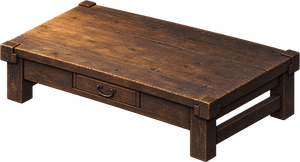
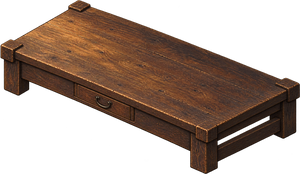
Integrate approved interior prop angle corrections

diff --git a/tools/prepare_interior_angle_revisions.py b/tools/prepare_interior_angle_revisions.py
@@ -1,0 +1,56 @@
+"""Install approved angle revisions as game-sized transparent interior cutouts.
+
+Preview sources remain unchanged. Run with the bundled Pillow Python runtime.
+"""
+import json
+import re
+from pathlib import Path
+
+from PIL import Image
+
+
+ROOT = Path(__file__).resolve().parents[1]
+SOURCE = ROOT / "assets/environment/interior_prop_previews/angle_revisions"
+DEST = ROOT / "game/art/interior"
+NAMES = (
+    "inspection_table",
+    "customs_notice_board",
+    "towel_shelf",
+    "bath_bucket_stool",
+)
+
+
+def main():
+    metadata_path = ROOT / "game/art/cutouts.json"
+    metadata_text = metadata_path.read_text(encoding="utf-8")
+    metadata = json.loads(metadata_text)
+    prepared = []
+    for name in NAMES:
+        image = Image.open(SOURCE / f"{name}_angle_v2.png").convert("RGBA")
+        bounds = image.getchannel("A").point(lambda value: 255 if value > 8 else 0).getbbox()
+        if not bounds:
+            raise ValueError(f"{name} has no visible pixels")
+        image = image.crop(bounds)
+        scale = min(1, 300 / max(image.size))
+        size = tuple(max(1, round(dimension * scale)) for dimension in image.size)
+        image = image.resize(size, Image.Resampling.LANCZOS)
+
+        old = metadata[f"interior/{name}"]
+        revised = dict(old, w=size[0], h=size[1], right=size[0] - 1,
+                       bottomX=size[0] // 2, bottomY=size[1] - 1)
+        pattern = rf'("interior/{name}": )\{{[^\r\n]*\}}'
+        replacement = rf'\g<1>{json.dumps(revised, separators=(",", ":"))}'
+        metadata_text, count = re.subn(pattern, replacement, metadata_text)
+        if count != 1:
+            raise ValueError(f"{name}: could not update exactly one metadata entry")
+        prepared.append((name, image))
+
+    json.loads(metadata_text)
+    for name, image in prepared:
+        image.save(DEST / f"{name}.png", optimize=True)
+        print(f"{name}: installed {image.width}x{image.height}")
+    metadata_path.write_text(metadata_text, encoding="utf-8")
+
+
+if __name__ == "__main__":
+    main()

diff --git a/docs/interior_art_layout_handoff_2026-10-22.md b/docs/interior_art_layout_handoff_2026-10-22.md
@@ -1,0 +1,24 @@
+# Interior art and layout handoff — 2026-10-22
+
+The user approved the new interior artwork and requested logical, visually aligned layouts. The earlier interior pass was committed as `369d50f`. The four approved angle revisions below are newer, uncommitted changes in the shared working tree. Preserve unrelated changes from concurrent work.
+
+## Integrated work
+
+- Twelve first-pass approved props were added to `game/art/interior/`, `game/data/art.json`, `game/art/cutouts.json`, and `game/data/interior_parts.json`: inspection table, ledger stack, records shelf, customs notice board, merchandise shelf, pawn display, soaking tub, bath bucket/stool, towel shelf, weapon rack, practice dummy, and brewing vat. Full-resolution sources and prompts are in `assets/environment/interior_prop_previews/`.
+- Eight second-pass approved props were added in the same catalog: shop dry-goods and textile shelves, pawn valuables display, two brewery shelves, manor reception table, armor display, and scroll cabinet. Sources and contact sheet are in `assets/environment/interior_prop_previews/pass2/`.
+- `game/src/sim/generate.js` now supports aligned rows with mixed art variants and optional gaps, fixed sleeping bays, and four cushions around the manor reception table. `game/data/room_recipes.json` arranges shop and pawn displays, customs records, brewery vats and shelves, manor furnishings, tenement sleeping and common areas, and bathhouse washing and tub zones. The bathhouse screen arrangement remains unchanged.
+- New brewery painted shelves replaced the old `sake_shelf` within the brewery recipe. The old prop remains available to other rooms.
+- Current correction from user screenshots: pawnshop display row includes the merchandise shelf with a 0.5-cell visual gap; brewery bottle shelves have a 1-cell gap; customs notice board is wall-mounted on the north wall; bathhouse towel shelf is north-wall furniture and washing stations form a row separate from the tubs.
+- `game/tools/test_interior_art.mjs` checks approved art files, selected-room prop presence, aligned rows, and existing cutout/collision behavior. `tools/prepare_interior_prop_previews.py` prepares game-sized sprites; `tools/make_interior_preview_sheet.py` creates the second-pass contact sheet.
+- After reviewing the angle-revision contact sheet, the user approved it. `tools/prepare_interior_angle_revisions.py` installed the revised inspection table, customs notice board, towel shelf, and bath bucket/stool in `game/art/interior/` and updated their dimensions in `game/art/cutouts.json`. The room recipes, placements, and collision footprints did not change. The optional revised futon art remains a preview because the small renderer rotation is already in place.
+
+## Validation and remaining work
+
+- Before the latest pawnshop, brewery, customs-board, and bathhouse refinements, all 14 room types passed 100 seeds and `test_interior_art.mjs` passed.
+- After the latest refinements, all 14 types passed 100 seeds and `node game/tools/test_interior_art.mjs` passed. The brewery shelf row now slides along the north wall to avoid a door or counter; this resolved the one previously failing seed.
+- User reported that the painted angle of futons, customs inspection desk/notice board, and bathhouse towel shelf/bucket-stool was slightly off from the room wall/floor axes. The room footprints and screens were aligned. Tim suggested rotating the image first, so tenement futons use a small `artAngle: -3` visual rotation through `interiors.js` and `render/scenery.js`, with no collision or screen change. The four other approved perspective-corrected images are now game cutouts. Their full-resolution sources, the optional futon revision, and contact sheet remain under `assets/environment/interior_prop_previews/angle_revisions/`.
+- After installing the four revisions, `node game/tools/test_interior_art.mjs` and `node game/tools/test_rooms.mjs 100` passed for all room types.
+- Hideout custom layout/art was explicitly deferred to a later pass. Den, teahouse, and warehouse were praised by the user and intentionally left alone in this refinement.
+- An anti-camping warning fired inside the brewery. The user asked for this to be sent to another chat. `Fix indoor anti-camping warning` (thread `01a1644d-b06e-7b71-b6b9-9fb94ea7acec`) is handling that fix in the shared checkout. Avoid overlap with its gameplay files.
+
+Commit only the interior-related paths after reviewing `git status`; several unrelated gameplay and menu files are being edited concurrently in the shared checkout.

diff --git a/docs/interiors_spec.md b/docs/interiors_spec.md
@@ -8,7 +8,7 @@ Phase 3E (Tim, 2026-10-21): Shop, Tenements, Pawnshop, Bathhouse, Sake Brewery, 
 
 Approved painted wall panels and prop cutouts reuse the room's 3D floors, walls, depth and collision footprints. Twenty new props cover customs records/inspection, shop and pawn displays, bathing, dojo training, brewery storage/vats and manor furnishings. Sources and prompts: `assets/environment/interior_prop_previews/`; preparation: `tools/prepare_interior_prop_previews.py` and `tools/extract_interior_reuse.py`. Layout rules: [room generator](room_generator_plan.md#aligned-layouts-tim-2026-10-22).
 
-Five perspective revisions (futon, inspection table, notice board, towel shelf and bucket/stool) remain previews only. Tenement futons use a small -3° in-render art rotation; collision footprints and screens stay fixed. Tim reviews revised art before replacement. Hideout custom art/layout remains deferred.
+Angle revisions approved and integrated (Tim, 2026-10-22): inspection table, customs notice board, towel shelf and bath bucket/stool. Recipes, placement and collision footprints are unchanged. Optional futon v2 stays preview-only. Tenement futons use a small -3° in-render art rotation; collision footprints and screens stay fixed. Tim reviews revised art before replacement. Hideout custom art/layout remains deferred.
 
 ## Why 3D
 

diff --git a/assets/environment/interior_prop_previews/angle_revisions/prompts.md b/assets/environment/interior_prop_previews/angle_revisions/prompts.md
@@ -1,0 +1,11 @@
+# Angle-correction previews
+
+Generated 2026-10-22 from the existing game cutouts. After user review, the four customs and bathhouse revisions were installed as game cutouts. The futon revision remains optional preview art; tenement futons use a small renderer rotation instead.
+
+- `futon_angle_v2.png`: Preserve the indigo futon and pillow; adjust its long axis to the room wall/floor isometric diagonal.
+- `inspection_table_angle_v2.png`: Preserve the dark cedar customs table and drawer; redraw the tabletop as a steeper isometric parallelogram aligned with the room grid.
+- `customs_notice_board_angle_v2.png`: Preserve the wooden roof and blank notices; angle its long edges parallel to the room wall.
+- `towel_shelf_angle_v2.png`: Preserve the towel shelf's contents; redraw its long shelf edges on the room's wall diagonal.
+- `bath_bucket_stool_angle_v2.png`: Preserve the cedar water bucket and low stool; redraw their grouping and stool top in the room's isometric angle.
+
+All five prompts requested one isolated prop, genuine alpha transparency, and no floor or shadows. The full-resolution files remain here as source art. `tools/prepare_interior_angle_revisions.py` prepares the four approved game cutouts and updates their metadata.
